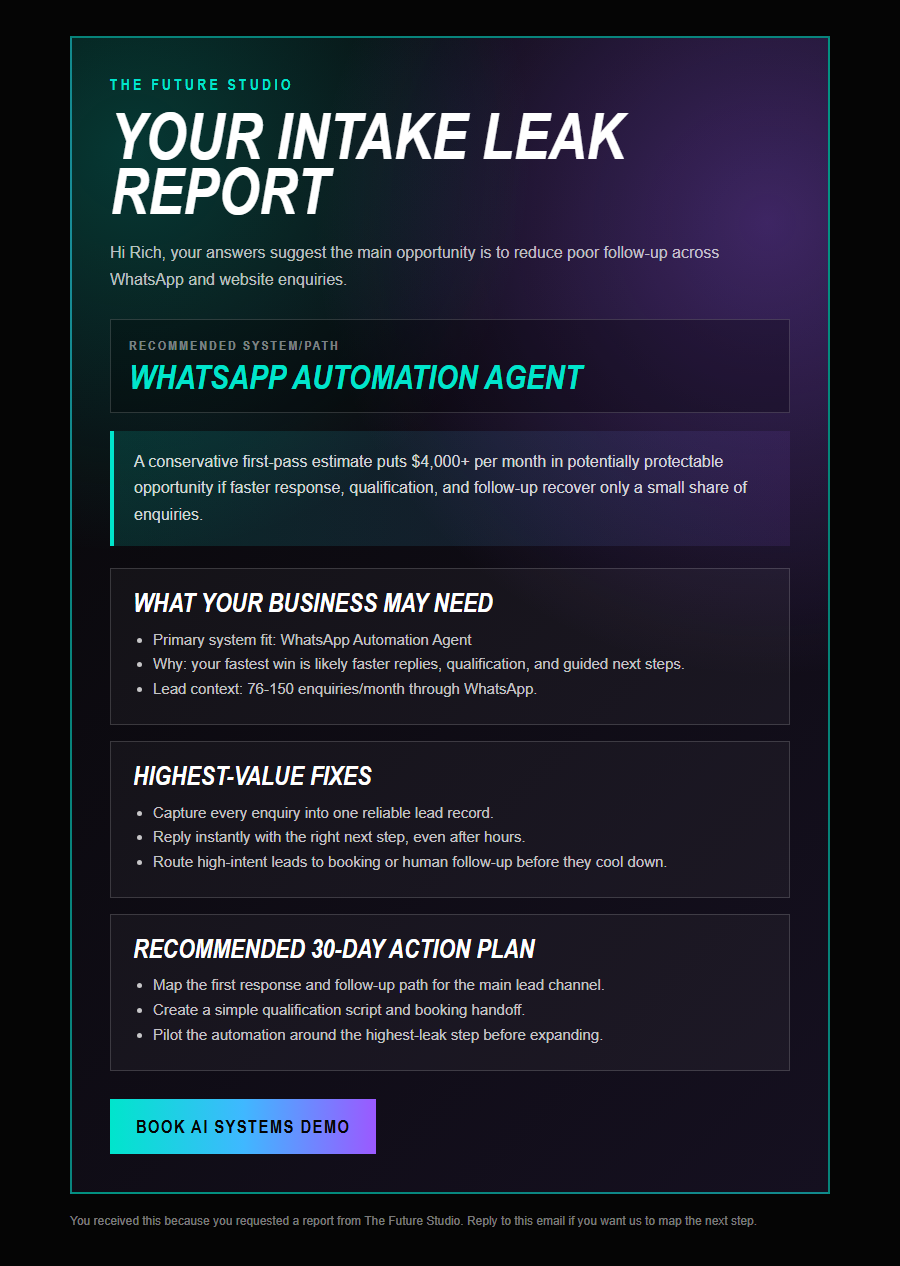
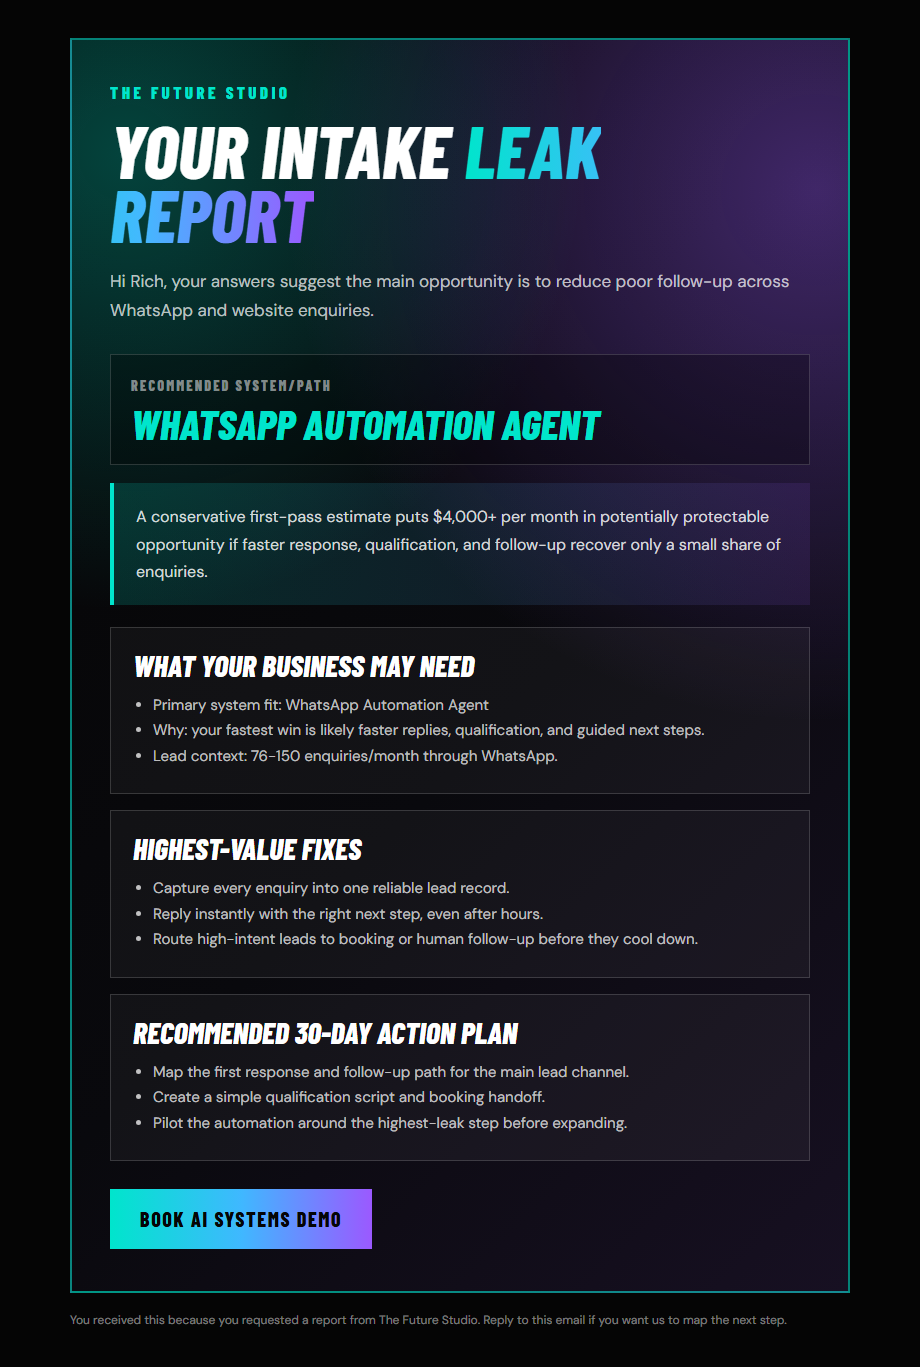
Update generated preview assets

Changed region(s): [[0.0622, 0.0308, 0.9333, 0.9858], [0.1244, 0.7393, 0.6844, 0.8318]]

diff --git a/preview-links/email-report-preview.html b/preview-links/email-report-preview.html
@@ -4,40 +4,43 @@
   <meta charset="utf-8">
   <meta name="viewport" content="width=device-width, initial-scale=1">
   <title>Email Report Preview</title>
+  <link rel="preconnect" href="https://fonts.googleapis.com">
+  <link rel="preconnect" href="https://fonts.gstatic.com" crossorigin>
+  <link href="https://fonts.googleapis.com/css2?family=Barlow+Condensed:ital,wght@0,700;0,800;1,700;1,800&family=DM+Sans:wght@400;500;700;800&display=swap" rel="stylesheet">
 </head>
-<body style="margin:0;background:#050505;color:#ffffff;font-family:Arial,sans-serif;">
-  <div style="max-width:760px;margin:0 auto;padding:36px 20px;">
-    <div style="border:2px solid rgba(0,229,204,.55);background:radial-gradient(circle at 8% 10%,rgba(0,229,204,.22),transparent 32%),radial-gradient(circle at 92% 16%,rgba(155,89,255,.34),transparent 38%),linear-gradient(135deg,#070707,#151020);padding:38px;">
-      <p style="margin:0 0 16px;font-family:'Barlow Condensed','Arial Narrow',Impact,Arial,sans-serif;font-size:15px;font-weight:800;letter-spacing:.22em;text-transform:uppercase;color:#00e5cc;">The Future Studio</p>
-      <h1 style="margin:0 0 20px;font-family:'Barlow Condensed','Arial Narrow',Impact,Arial,sans-serif;font-size:64px;line-height:.86;font-weight:800;font-style:italic;letter-spacing:0;text-transform:uppercase;color:#ffffff;">Your Intake Leak Report</h1>
-      <p style="margin:0 0 26px;color:rgba(255,255,255,.72);font-family:'DM Sans',Arial,sans-serif;font-size:16px;line-height:1.7;">Hi Rich, your answers suggest the main opportunity is to reduce poor follow-up across WhatsApp and website enquiries.</p>
-      <div style="display:block;border:1px solid rgba(255,255,255,.16);padding:18px;background:rgba(0,0,0,.28);margin-bottom:18px;">
-        <span style="display:block;font-family:'Barlow Condensed','Arial Narrow',Impact,Arial,sans-serif;font-size:13px;font-weight:800;letter-spacing:.16em;text-transform:uppercase;color:rgba(255,255,255,.48);">Recommended system/path</span>
-        <strong style="display:block;margin-top:8px;font-family:'Barlow Condensed','Arial Narrow',Impact,Arial,sans-serif;font-size:34px;line-height:.95;font-weight:800;font-style:italic;text-transform:uppercase;color:#00e5cc;">WhatsApp Automation Agent</strong>
+<body style="margin:0;background:#050505;color:#ffffff;font-family:'DM Sans',Arial,sans-serif;">
+  <div style="max-width:780px;margin:0 auto;padding:38px 20px;">
+    <div style="border:2px solid rgba(0,229,204,.55);background:radial-gradient(circle at 7% 9%,rgba(0,229,204,.28),transparent 34%),radial-gradient(circle at 96% 12%,rgba(155,89,255,.38),transparent 40%),linear-gradient(135deg,#050505 0%,#09090d 55%,#171022 100%);padding:42px 38px;">
+      <p style="margin:0 0 16px;font-family:'Barlow Condensed','Arial Narrow','Roboto Condensed',Impact,Arial,sans-serif;font-size:17px;font-weight:800;letter-spacing:.20em;text-transform:uppercase;color:#00e5cc;">The Future Studio</p>
+      <h1 style="margin:0 0 22px;font-family:'Barlow Condensed','Arial Narrow','Roboto Condensed',Impact,Arial,sans-serif;font-size:74px;line-height:.86;font-weight:800;font-style:italic;letter-spacing:0;text-transform:uppercase;color:#ffffff;">Your Intake <span style="background:linear-gradient(90deg,#00e5cc,#44b8ff,#9b59ff);-webkit-background-clip:text;background-clip:text;color:#44b8ff;-webkit-text-fill-color:transparent;">Leak Report</span></h1>
+      <p style="margin:0 0 28px;color:rgba(255,255,255,.72);font-family:'DM Sans',Arial,sans-serif;font-size:17px;line-height:1.72;">Hi Rich, your answers suggest the main opportunity is to reduce poor follow-up across WhatsApp and website enquiries.</p>
+      <div style="display:block;border:1px solid rgba(255,255,255,.16);padding:22px 20px;background:rgba(0,0,0,.30);margin-bottom:18px;">
+        <span style="display:block;font-family:'Barlow Condensed','Arial Narrow','Roboto Condensed',Impact,Arial,sans-serif;font-size:14px;font-weight:800;letter-spacing:.16em;text-transform:uppercase;color:rgba(255,255,255,.50);">Recommended system/path</span>
+        <strong style="display:block;margin-top:10px;font-family:'Barlow Condensed','Arial Narrow','Roboto Condensed',Impact,Arial,sans-serif;font-size:42px;line-height:.92;font-weight:800;font-style:italic;text-transform:uppercase;color:#00e5cc;">WhatsApp Automation Agent</strong>
       </div>
-      <div style="padding:18px 20px;border-left:4px solid #00e5cc;background:linear-gradient(90deg,rgba(0,229,204,.14),rgba(155,89,255,.10));color:rgba(255,255,255,.82);font-family:'DM Sans',Arial,sans-serif;font-size:16px;line-height:1.65;">
+      <div style="padding:20px 22px;border-left:4px solid #00e5cc;background:linear-gradient(90deg,rgba(0,229,204,.16),rgba(155,89,255,.11));color:rgba(255,255,255,.84);font-family:'DM Sans',Arial,sans-serif;font-size:16px;line-height:1.7;">
         A conservative first-pass estimate puts $4,000+ per month in potentially protectable opportunity if faster response, qualification, and follow-up recover only a small share of enquiries.
       </div>
       <div style="display:grid;gap:16px;margin-top:22px;">
-        <section style="border:1px solid rgba(255,255,255,.16);padding:22px;background:rgba(255,255,255,.04);">
-          <h3 style="margin:0 0 12px;font-family:'Barlow Condensed','Arial Narrow',Impact,Arial,sans-serif;font-size:26px;line-height:.95;font-weight:800;font-style:italic;letter-spacing:0;text-transform:uppercase;color:#ffffff;">What your business may need</h3>
-          <ul style="margin:0;padding-left:20px;color:rgba(255,255,255,.76);font-family:'DM Sans',Arial,sans-serif;font-size:15px;line-height:1.65;">
+        <section style="border:1px solid rgba(255,255,255,.16);padding:24px 22px;background:rgba(255,255,255,.045);">
+          <h3 style="margin:0 0 14px;font-family:'Barlow Condensed','Arial Narrow','Roboto Condensed',Impact,Arial,sans-serif;font-size:30px;line-height:.9;font-weight:800;font-style:italic;letter-spacing:0;text-transform:uppercase;color:#ffffff;">What your business may need</h3>
+          <ul style="margin:0;padding-left:20px;color:rgba(255,255,255,.74);font-family:'DM Sans',Arial,sans-serif;font-size:15px;line-height:1.7;">
             <li>Primary system fit: WhatsApp Automation Agent</li>
             <li>Why: your fastest win is likely faster replies, qualification, and guided next steps.</li>
             <li>Lead context: 76-150 enquiries/month through WhatsApp.</li>
           </ul>
         </section>
-        <section style="border:1px solid rgba(255,255,255,.16);padding:22px;background:rgba(255,255,255,.04);">
-          <h3 style="margin:0 0 12px;font-family:'Barlow Condensed','Arial Narrow',Impact,Arial,sans-serif;font-size:26px;line-height:.95;font-weight:800;font-style:italic;letter-spacing:0;text-transform:uppercase;color:#ffffff;">Highest-value fixes</h3>
-          <ul style="margin:0;padding-left:20px;color:rgba(255,255,255,.76);font-family:'DM Sans',Arial,sans-serif;font-size:15px;line-height:1.65;">
+        <section style="border:1px solid rgba(255,255,255,.16);padding:24px 22px;background:rgba(255,255,255,.045);">
+          <h3 style="margin:0 0 14px;font-family:'Barlow Condensed','Arial Narrow','Roboto Condensed',Impact,Arial,sans-serif;font-size:30px;line-height:.9;font-weight:800;font-style:italic;letter-spacing:0;text-transform:uppercase;color:#ffffff;">Highest-value fixes</h3>
+          <ul style="margin:0;padding-left:20px;color:rgba(255,255,255,.74);font-family:'DM Sans',Arial,sans-serif;font-size:15px;line-height:1.7;">
             <li>Capture every enquiry into one reliable lead record.</li>
             <li>Reply instantly with the right next step, even after hours.</li>
             <li>Route high-intent leads to booking or human follow-up before they cool down.</li>
           </ul>
         </section>
-        <section style="border:1px solid rgba(255,255,255,.16);padding:22px;background:rgba(255,255,255,.04);">
-          <h3 style="margin:0 0 12px;font-family:'Barlow Condensed','Arial Narrow',Impact,Arial,sans-serif;font-size:26px;line-height:.95;font-weight:800;font-style:italic;letter-spacing:0;text-transform:uppercase;color:#ffffff;">Recommended 30-day action plan</h3>
-          <ul style="margin:0;padding-left:20px;color:rgba(255,255,255,.76);font-family:'DM Sans',Arial,sans-serif;font-size:15px;line-height:1.65;">
+        <section style="border:1px solid rgba(255,255,255,.16);padding:24px 22px;background:rgba(255,255,255,.045);">
+          <h3 style="margin:0 0 14px;font-family:'Barlow Condensed','Arial Narrow','Roboto Condensed',Impact,Arial,sans-serif;font-size:30px;line-height:.9;font-weight:800;font-style:italic;letter-spacing:0;text-transform:uppercase;color:#ffffff;">Recommended 30-day action plan</h3>
+          <ul style="margin:0;padding-left:20px;color:rgba(255,255,255,.74);font-family:'DM Sans',Arial,sans-serif;font-size:15px;line-height:1.7;">
             <li>Map the first response and follow-up path for the main lead channel.</li>
             <li>Create a simple qualification script and booking handoff.</li>
             <li>Pilot the automation around the highest-leak step before expanding.</li>
@@ -45,7 +48,7 @@
         </section>
       </div>
       <div style="margin-top:28px;">
-        <a href="https://calendly.com/thefuturestudio-info/30min" target="_blank" rel="noopener" style="display:inline-block;padding:17px 26px;background:linear-gradient(90deg,#00e5cc,#3fb8ff,#9b59ff);color:#050505;text-decoration:none;font-family:'Barlow Condensed','Arial Narrow',Impact,Arial,sans-serif;font-size:18px;font-weight:800;text-transform:uppercase;letter-spacing:.08em;">Book AI Systems Demo</a>
+        <a href="https://calendly.com/thefuturestudio-info/30min" target="_blank" rel="noopener" style="display:inline-block;padding:18px 30px;background:linear-gradient(90deg,#00e5cc,#3fb8ff,#9b59ff);color:#050505;text-decoration:none;font-family:'Barlow Condensed','Arial Narrow','Roboto Condensed',Impact,Arial,sans-serif;font-size:20px;font-weight:800;text-transform:uppercase;letter-spacing:.08em;">Book AI Systems Demo</a>
       </div>
     </div>
     <p style="margin:18px 0 0;color:rgba(255,255,255,.48);font-family:'DM Sans',Arial,sans-serif;font-size:12px;line-height:1.5;">You received this because you requested a report from The Future Studio. Reply to this email if you want us to map the next step.</p>
